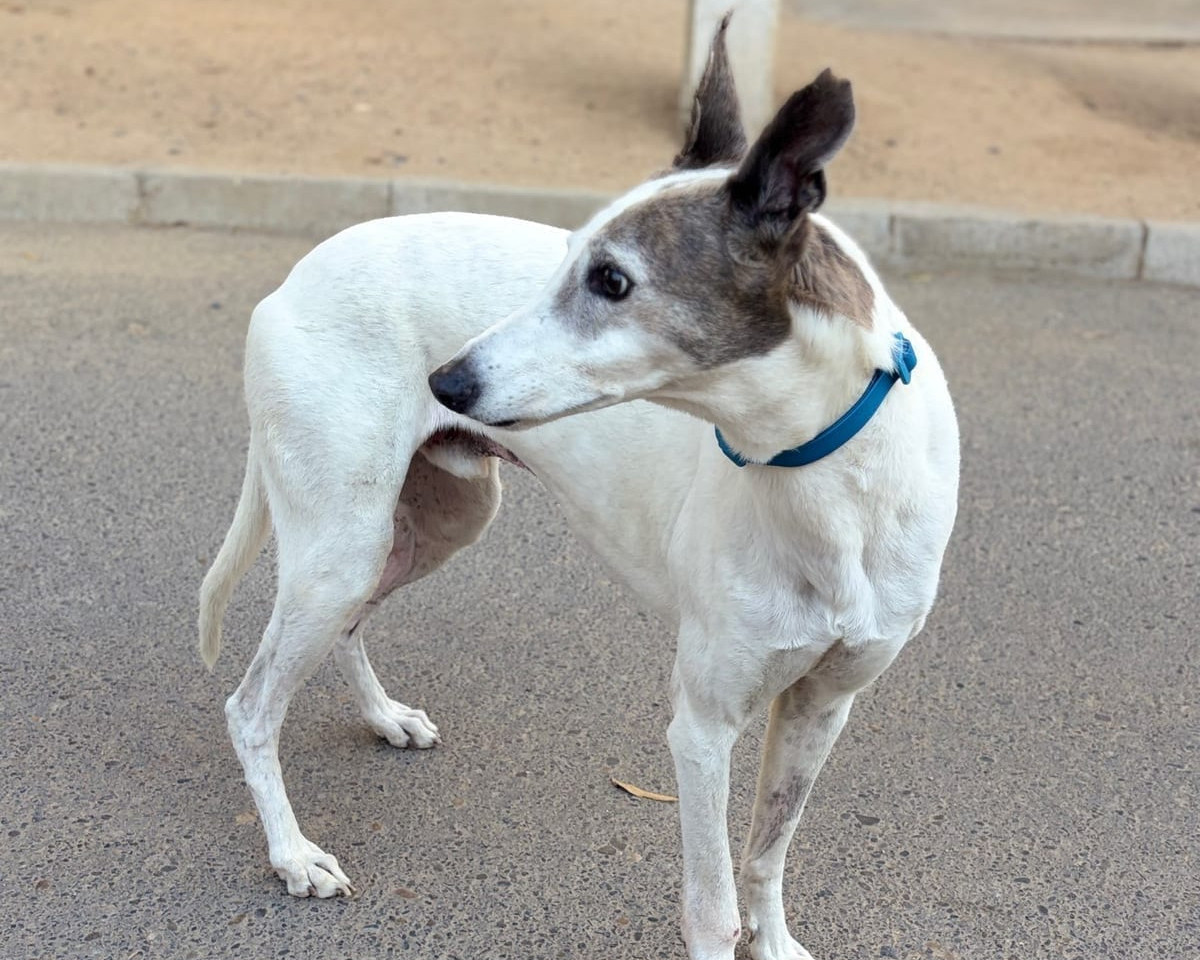
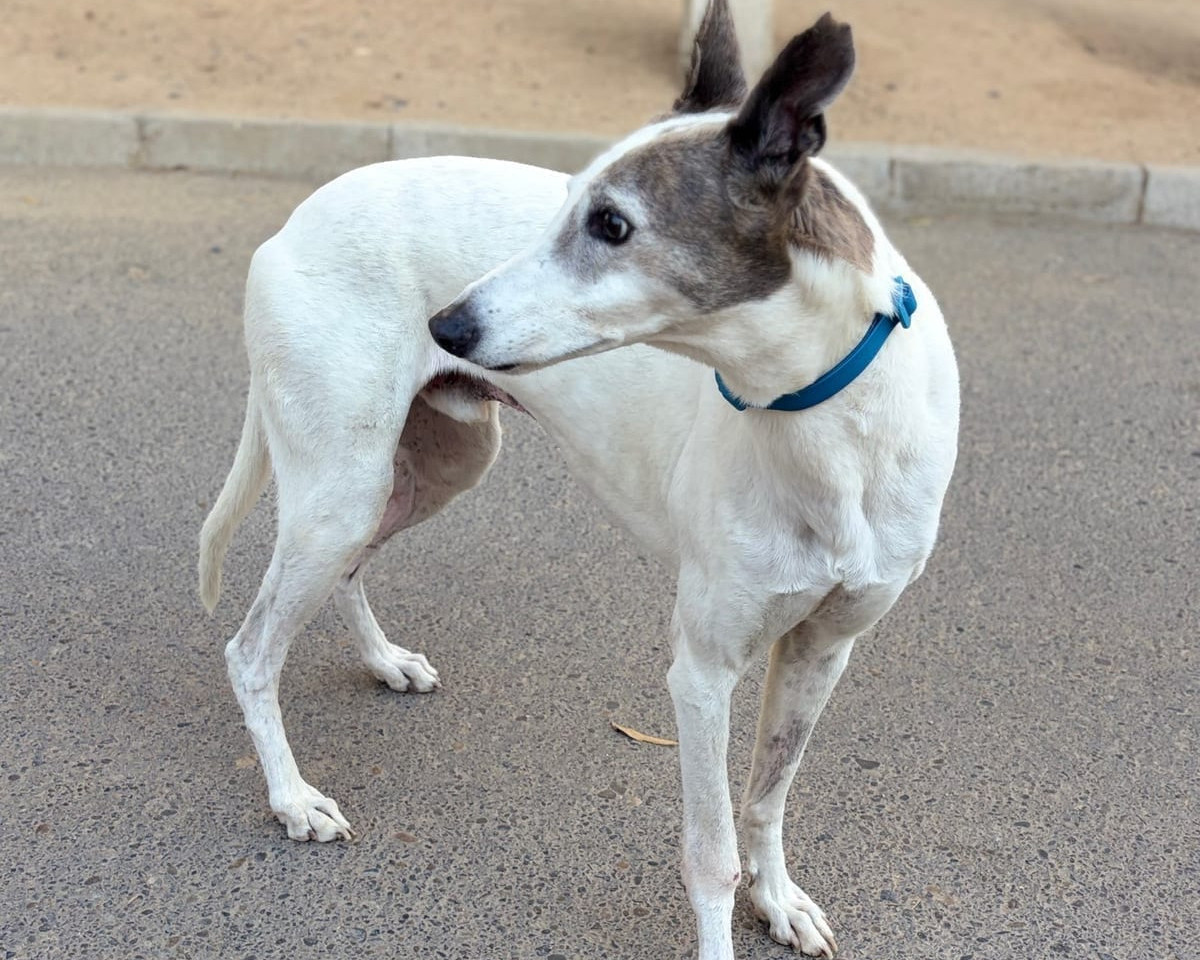
style: update padding for hero and page-hero components for better layout

diff --git a/src/styles/components/featured-adoption-dogs.css b/src/styles/components/featured-adoption-dogs.css
@@ -4,17 +4,6 @@
   background: color-mix(in sRGB, var(--color-primary-100) 20%, var(--color-bg));
 }
 
-.featured-adoption::before {
-  position: absolute;
-  top: 0;
-  left: max(0px, calc((100% - var(--content-max)) / 2 + var(--gutter)));
-  width: clamp(5rem, 12vw, 10rem);
-  height: 0.35rem;
-  border-radius: 0 0 var(--radius-full) var(--radius-full);
-  background: var(--color-primary);
-  content: "";
-}
-
 .featured-adoption__intro {
   max-width: 44rem;
 }

diff --git a/src/styles/components/page-hero.css b/src/styles/components/page-hero.css
@@ -2,6 +2,13 @@
   text-align: center;
   position: relative;
   overflow: clip;
+  padding-block-start: var(--space-7);
+}
+
+@media (min-width: 1024px) {
+  .page-hero {
+    padding-block-start: var(--space-8);
+  }
 }
 
 .page-hero::before {

diff --git a/src/styles/components/hero.css b/src/styles/components/hero.css
@@ -1,7 +1,7 @@
 .hero {
   position: relative;
   overflow: clip;
-  padding-block: calc(var(--space-9) + var(--space-3)) var(--space-9);
+  padding-block: var(--space-8) var(--space-9);
 }
 
 .hero::before {